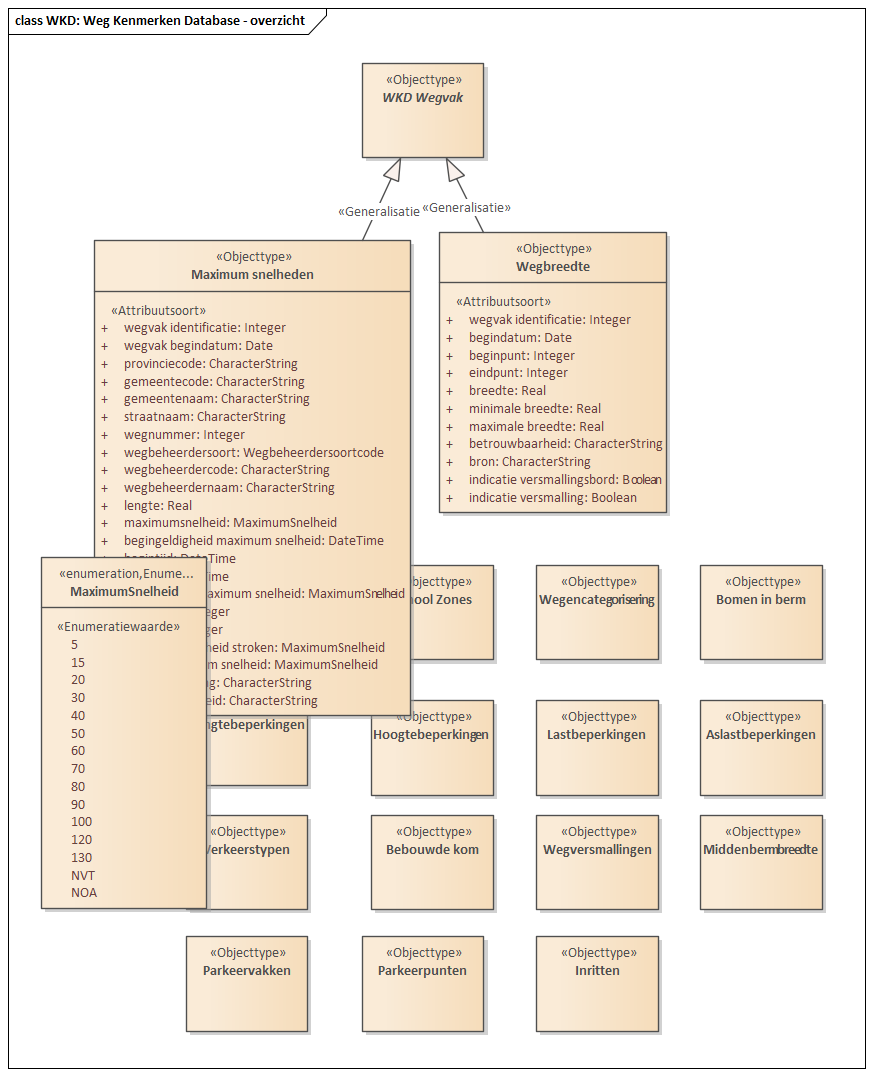
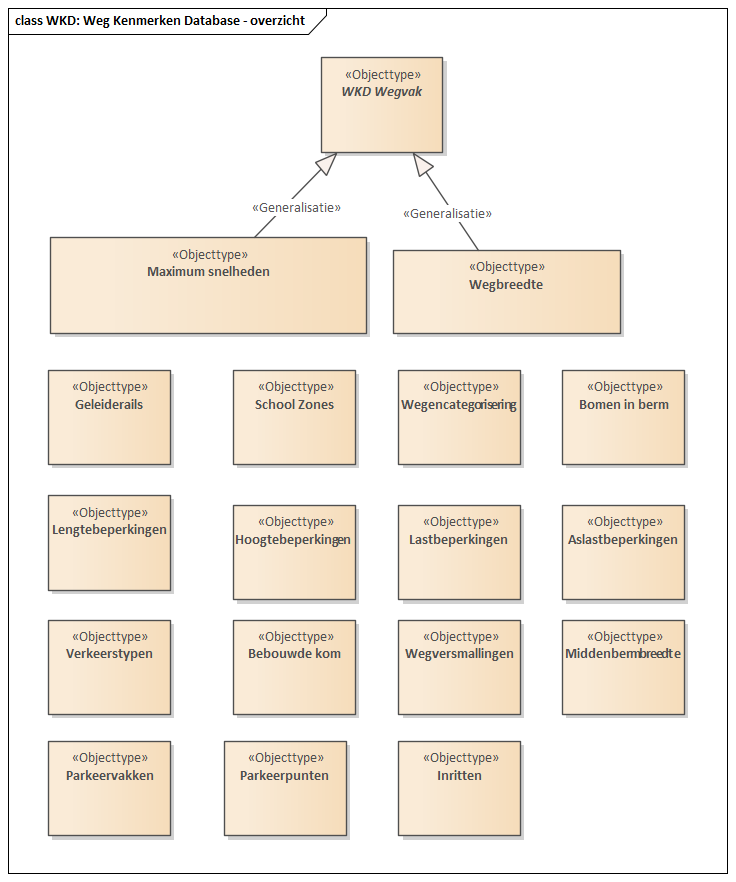
MIMCM-IMMob-conceptueel-1.0-1-20250414-20250428-120113

diff --git a/data/IMMOB-cat.respec.html b/data/IMMOB-cat.respec.html
@@ -1,4 +1,4 @@
-<!DOCTYPE HTML><section id="cat" class="normative"><h2>Gegevensdefinitie</h2><!--MIMCM-IMMob-conceptueel-1.0-1-20250414-20250428-115442 imvertor 4.3.0--><section id="global_package_Mobiliteit"><h3>Domein   Mobiliteit</h3><section id="EAID_4CC5EE07_D982_4fb9_B579_A338B9A2E7E2"><h4>   Informatiemodel Mobiliteit - overzicht</h4><div class="imageinfo overview"><figure class="uml-diagram"><img id="EAID_4CC5EE07_D982_4fb9_B579_A338B9A2E7E2" src="data/Images/EAID_4CC5EE07_D982_4fb9_B579_A338B9A2E7E2.png" usemap="#imagemap-EAID_4CC5EE07_D982_4fb9_B579_A338B9A2E7E2" alt="Diagram: Informatiemodel Mobiliteit - overzicht"><figcaption> ‒ Diagram: Informatiemodel Mobiliteit</figcaption></figure><map name="imagemap-EAID_4CC5EE07_D982_4fb9_B579_A338B9A2E7E2"><area shape="rect" alt="Wegvak" coords="258,106,554,210" href="#global_class_NWB_Wegvak"><area shape="rect" alt="Junctie" coords="48,262,171,358" href="#global_class_NWB_Junctie"><area shape="rect" alt="KeuzeWegknoopNWBofIBRO" coords="91,413,258,495" href="#global_class_Mobiliteit_KeuzeWegknoopNWBofIBRO"><area shape="rect" alt="Wegknoop" coords="236,262,359,358" href="#global_class_IBRO_Wegknoop"><area shape="rect" alt="Wegverbinding" coords="585,106,798,188" href="#global_class_IBRO_Wegverbinding"><area shape="rect" alt="Snelheidsbeperking" coords="463,804,772,1059" href="#global_class_Mobiliteit_Snelheidsbeperking"><area shape="rect" alt="KeuzeWegverbindingNWBofIBRO" coords="524,319,723,401" href="#global_class_Mobiliteit_KeuzeWegverbindingNWBofIBRO"><area shape="rect" alt="Wegclassificatie" coords="772,478,995,635" href="#global_class_Mobiliteit_Wegclassificatie"><area shape="rect" alt="Knooppunt" coords="113,559,236,611" href="#global_class_Mobiliteit_Knooppunt"><area shape="rect" alt="Weglink" coords="509,478,725,693" href="#global_class_Mobiliteit_Weglink"></map><p>
+<!DOCTYPE HTML><section id="cat" class="normative"><h2>Gegevensdefinitie</h2><!--MIMCM-IMMob-conceptueel-1.0-1-20250414-20250428-120113 imvertor 4.3.0--><section id="global_package_Mobiliteit"><h3>Domein   Mobiliteit</h3><section id="EAID_4CC5EE07_D982_4fb9_B579_A338B9A2E7E2"><h4>   Informatiemodel Mobiliteit - overzicht</h4><div class="imageinfo overview"><figure class="uml-diagram"><img id="EAID_4CC5EE07_D982_4fb9_B579_A338B9A2E7E2" src="data/Images/EAID_4CC5EE07_D982_4fb9_B579_A338B9A2E7E2.png" usemap="#imagemap-EAID_4CC5EE07_D982_4fb9_B579_A338B9A2E7E2" alt="Diagram: Informatiemodel Mobiliteit - overzicht"><figcaption> ‒ Diagram: Informatiemodel Mobiliteit</figcaption></figure><map name="imagemap-EAID_4CC5EE07_D982_4fb9_B579_A338B9A2E7E2"><area shape="rect" alt="Wegvak" coords="258,106,554,210" href="#global_class_NWB_Wegvak"><area shape="rect" alt="Junctie" coords="48,262,171,358" href="#global_class_NWB_Junctie"><area shape="rect" alt="KeuzeWegknoopNWBofIBRO" coords="91,413,258,495" href="#global_class_Mobiliteit_KeuzeWegknoopNWBofIBRO"><area shape="rect" alt="Wegknoop" coords="236,262,359,358" href="#global_class_IBRO_Wegknoop"><area shape="rect" alt="Wegverbinding" coords="585,106,798,188" href="#global_class_IBRO_Wegverbinding"><area shape="rect" alt="Snelheidsbeperking" coords="463,804,772,1059" href="#global_class_Mobiliteit_Snelheidsbeperking"><area shape="rect" alt="KeuzeWegverbindingNWBofIBRO" coords="524,319,723,401" href="#global_class_Mobiliteit_KeuzeWegverbindingNWBofIBRO"><area shape="rect" alt="Wegclassificatie" coords="772,478,995,635" href="#global_class_Mobiliteit_Wegclassificatie"><area shape="rect" alt="Knooppunt" coords="113,559,236,611" href="#global_class_Mobiliteit_Knooppunt"><area shape="rect" alt="Weglink" coords="509,478,725,693" href="#global_class_Mobiliteit_Weglink"></map><p>
                         <p></p>
                      </p></div></section><section><h4>Objecttypen   </h4>
             <section id="global_class_Mobiliteit_Weglink"><h5>   Weglink</h5>
@@ -1968,7 +1968,7 @@
             
             
             
-         </section></section><section id="global_package_WKD"><h3>View   WKD</h3><section id="EAID_D493B87F_8A42_4651_94E8_03216A2D4D33"><h4>   WKD: Weg Kenmerken Database - overzicht</h4><div class="imageinfo overview"><figure class="uml-diagram"><img id="EAID_D493B87F_8A42_4651_94E8_03216A2D4D33" src="data/Images/EAID_D493B87F_8A42_4651_94E8_03216A2D4D33.png" usemap="#imagemap-EAID_D493B87F_8A42_4651_94E8_03216A2D4D33" alt="Diagram: WKD: Weg Kenmerken Database - overzicht"><figcaption> ‒ Diagram: WKD: Weg Kenmerken Database</figcaption></figure><map name="imagemap-EAID_D493B87F_8A42_4651_94E8_03216A2D4D33"><area shape="rect" alt="MaximumSnelheid" coords="41,557,207,909" href="#detail_class_WKD_MaximumSnelheid"><area shape="rect" alt="WKD Wegvak" coords="362,63,484,158" href="#global_class_WKD_WKDWegvak"><area shape="rect" alt="Maximum snelheden" coords="94,240,411,716" href="#global_class_WKD_Maximumsnelheden"><area shape="rect" alt="Wegencategorisering" coords="536,565,659,660" href="#global_class_WKD_Wegencategorisering"><area shape="rect" alt="Wegbreedte" coords="439,232,667,513" href="#global_class_WKD_Wegbreedte"><area shape="rect" alt="Hoogtebeperkingen" coords="371,700,494,796" href="#global_class_WKD_Hoogtebeperkingen"><area shape="rect" alt="Lengtebeperkingen" coords="186,690,308,786" href="#global_class_WKD_Lengtebeperkingen"><area shape="rect" alt="Lastbeperkingen" coords="536,700,659,796" href="#global_class_WKD_Lastbeperkingen"><area shape="rect" alt="Aslastbeperkingen" coords="700,700,823,796" href="#global_class_WKD_Aslastbeperkingen"><area shape="rect" alt="Wegversmallingen" coords="536,815,659,910" href="#global_class_WKD_Wegversmallingen"><area shape="rect" alt="Parkeervakken" coords="186,936,308,1032" href="#global_class_WKD_Parkeervakken"><area shape="rect" alt="Parkeerpunten" coords="362,936,484,1032" href="#global_class_WKD_Parkeerpunten"><area shape="rect" alt="Inritten" coords="536,936,659,1032" href="#global_class_WKD_Inritten"><area shape="rect" alt="Bebouwde kom" coords="371,815,494,910" href="#global_class_WKD_Bebouwdekom"><area shape="rect" alt="Verkeerstypen" coords="186,815,308,910" href="#global_class_WKD_Verkeerstypen"><area shape="rect" alt="Bomen in berm" coords="700,565,823,660" href="#global_class_WKD_Bomeninberm"><area shape="rect" alt="Middenbermbreedte" coords="700,815,823,910" href="#global_class_WKD_Middenbermbreedte"><area shape="rect" alt="Geleiderails" coords="186,565,308,660" href="#global_class_WKD_Geleiderails"><area shape="rect" alt="School Zones" coords="371,565,494,660" href="#global_class_WKD_SchoolZones"></map><p>
+         </section></section><section id="global_package_WKD"><h3>View   WKD</h3><section id="EAID_D493B87F_8A42_4651_94E8_03216A2D4D33"><h4>   WKD: Weg Kenmerken Database - overzicht</h4><div class="imageinfo overview"><figure class="uml-diagram"><img id="EAID_D493B87F_8A42_4651_94E8_03216A2D4D33" src="data/Images/EAID_D493B87F_8A42_4651_94E8_03216A2D4D33.png" usemap="#imagemap-EAID_D493B87F_8A42_4651_94E8_03216A2D4D33" alt="Diagram: WKD: Weg Kenmerken Database - overzicht"><figcaption> ‒ Diagram: WKD: Weg Kenmerken Database</figcaption></figure><map name="imagemap-EAID_D493B87F_8A42_4651_94E8_03216A2D4D33"><area shape="rect" alt="WKD Wegvak" coords="321,57,443,153" href="#global_class_WKD_WKDWegvak"><area shape="rect" alt="Maximum snelheden" coords="50,237,367,334" href="#global_class_WKD_Maximumsnelheden"><area shape="rect" alt="Wegencategorisering" coords="398,370,521,465" href="#global_class_WKD_Wegencategorisering"><area shape="rect" alt="Wegbreedte" coords="393,250,621,334" href="#global_class_WKD_Wegbreedte"><area shape="rect" alt="Hoogtebeperkingen" coords="233,505,356,600" href="#global_class_WKD_Hoogtebeperkingen"><area shape="rect" alt="Lengtebeperkingen" coords="48,495,171,591" href="#global_class_WKD_Lengtebeperkingen"><area shape="rect" alt="Lastbeperkingen" coords="398,505,521,600" href="#global_class_WKD_Lastbeperkingen"><area shape="rect" alt="Aslastbeperkingen" coords="562,505,685,600" href="#global_class_WKD_Aslastbeperkingen"><area shape="rect" alt="Wegversmallingen" coords="398,620,521,715" href="#global_class_WKD_Wegversmallingen"><area shape="rect" alt="Parkeervakken" coords="48,741,171,836" href="#global_class_WKD_Parkeervakken"><area shape="rect" alt="Parkeerpunten" coords="224,741,347,836" href="#global_class_WKD_Parkeerpunten"><area shape="rect" alt="Inritten" coords="398,741,521,836" href="#global_class_WKD_Inritten"><area shape="rect" alt="Bebouwde kom" coords="233,620,356,715" href="#global_class_WKD_Bebouwdekom"><area shape="rect" alt="Verkeerstypen" coords="48,620,171,715" href="#global_class_WKD_Verkeerstypen"><area shape="rect" alt="Bomen in berm" coords="562,370,685,465" href="#global_class_WKD_Bomeninberm"><area shape="rect" alt="Middenbermbreedte" coords="562,620,685,715" href="#global_class_WKD_Middenbermbreedte"><area shape="rect" alt="Geleiderails" coords="48,370,171,465" href="#global_class_WKD_Geleiderails"><area shape="rect" alt="School Zones" coords="233,370,356,465" href="#global_class_WKD_SchoolZones"></map><p>
                         <p></p>
                      </p></div></section><section><h4>Objecttypen   </h4>
             <section id="global_class_WKD_WKDWegvak"><h5>   WKD Wegvak</h5>
@@ -4046,7 +4046,7 @@
             
             
             
-         </section></section></section><section id="lis" class="normative"><h2>Inhoud van waardelijsten</h2><!--MIMCM-IMMob-conceptueel-1.0-1-20250414-20250428-115442 imvertor 4.3.0--><section><h3>Codelijst inhoud   </h3><section id="detail_class_Mobiliteit_Voertuigcategorie"><h4>Codelijst details  Voertuigcategorie</h4>
+         </section></section></section><section id="lis" class="normative"><h2>Inhoud van waardelijsten</h2><!--MIMCM-IMMob-conceptueel-1.0-1-20250414-20250428-120113 imvertor 4.3.0--><section><h3>Codelijst inhoud   </h3><section id="detail_class_Mobiliteit_Voertuigcategorie"><h4>Codelijst details  Voertuigcategorie</h4>
             <table style="width: 100%;" class="list"><colgroup></colgroup><tbody><tr><td></td></tr></tbody></table>
             <table style="width: 100%;"><tbody><tr><th>Waarde</th><th>Omschrijving</th></tr></tbody></table>
          </section></section><section><h3>Enumeratie inhoud   </h3><section id="detail_class_Mobiliteit_TypeSnelheidsbeperking"><h4>Enumeratie details  TypeSnelheidsbeperking</h4>
